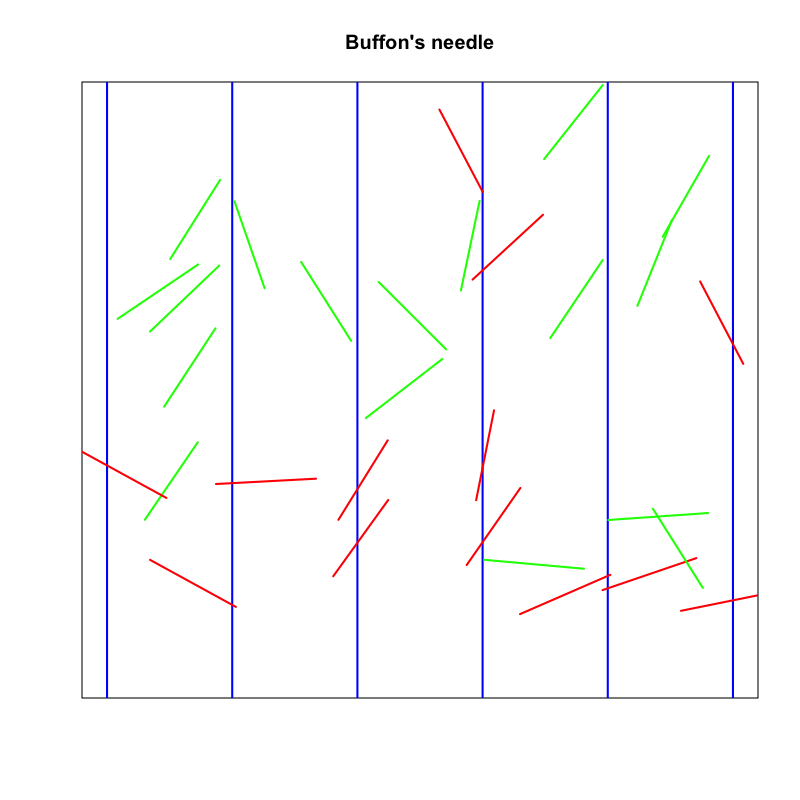
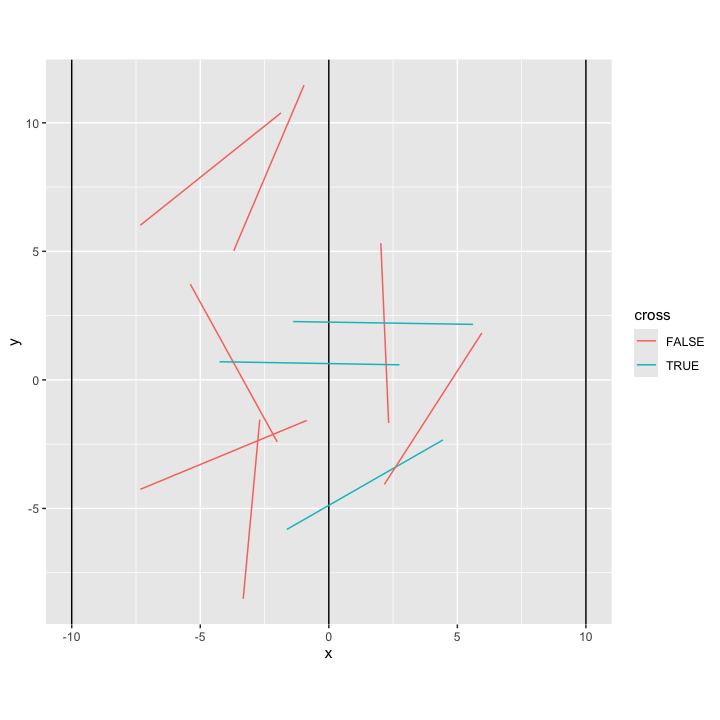
2026 version

diff --git a/docs/slides/slide06.html b/docs/slides/slide06.html
@@ -1,7 +1,7 @@
 <!DOCTYPE html>
 <html lang="en">
 <head>
-<!-- Generated on 2026-05-22 Fri 15:00 -->
+<!-- Generated on 2026-05-22 Fri 16:06 -->
 <meta charset="utf-8"/>
 <title>確率シミュレーション</title>
 <meta name="author" content="村田 昇"/>
@@ -74,8 +74,8 @@
 
 </section>
 <section>
-<section id="slide-org7694a65">
-<h2 id="org7694a65">講義の内容</h2>
+<section id="slide-org9dea32a">
+<h2 id="org9dea32a">講義の内容</h2>
 <ul>
 <li>計算機による数値実験</li>
 <li>乱数とは</li>
@@ -85,13 +85,13 @@
 </section>
 </section>
 <section>
-<section id="slide-orge4cf90b">
-<h2 id="orge4cf90b">計算機による数値実験</h2>
-<div class="outline-text-2" id="text-orge4cf90b">
+<section id="slide-orgd5dbd32">
+<h2 id="orgd5dbd32">計算機による数値実験</h2>
+<div class="outline-text-2" id="text-orgd5dbd32">
 </div>
 </section>
-<section id="slide-org7f364d8">
-<h3 id="org7f364d8">データ解析の枠組</h3>
+<section id="slide-orga78c031">
+<h3 id="orga78c031">データ解析の枠組</h3>
 <ul>
 <li>分析の目的
 <ul>
@@ -117,8 +117,8 @@
 
 </ul>
 </section>
-<section id="slide-org727b38f">
-<h3 id="org727b38f">データのもつべき性質</h3>
+<section id="slide-org78832a9">
+<h3 id="org78832a9">データのもつべき性質</h3>
 <ul>
 <li>偏った一部のデータから全体の性質の推測は困難
 <ul>
@@ -145,8 +145,8 @@
 
 </ul>
 </section>
-<section id="slide-org7c512c0">
-<h3 id="org7c512c0">理論解析と数値実験</h3>
+<section id="slide-org8326cfe">
+<h3 id="org8326cfe">理論解析と数値実験</h3>
 <ul>
 <li><p>
 <b>データ収集の問題</b> 
@@ -175,13 +175,13 @@
 </section>
 </section>
 <section>
-<section id="slide-orgea61ab7">
-<h2 id="orgea61ab7">乱数とは</h2>
-<div class="outline-text-2" id="text-orgea61ab7">
+<section id="slide-org86cfbdc">
+<h2 id="org86cfbdc">乱数とは</h2>
+<div class="outline-text-2" id="text-org86cfbdc">
 </div>
 </section>
-<section id="slide-org1537e92">
-<h3 id="org1537e92">擬似乱数</h3>
+<section id="slide-orge50db49">
+<h3 id="orge50db49">擬似乱数</h3>
 <ul>
 <li>コンピューターで生成された数列
 <ul>
@@ -200,8 +200,8 @@
 
 </ul>
 </section>
-<section id="slide-org50c47d5">
-<h3 id="org50c47d5">基本的な乱数</h3>
+<section id="slide-orge409475">
+<h3 id="orge409475">基本的な乱数</h3>
 <ul>
 <li><b>ランダムサンプリング</b> (無作為抽出)
 <ul>
@@ -224,8 +224,8 @@
 
 </ul>
 </section>
-<section id="slide-org7658995">
-<h3 id="org7658995">乱数を発生する関数</h3>
+<section id="slide-org2288a29">
+<h3 id="org2288a29">乱数を発生する関数</h3>
 <ul>
 <li>Rには様々な確率分布に従う乱数が実装されている
 <ul>
@@ -238,8 +238,8 @@
 
 </ul>
 </section>
-<section id="slide-org396ca3d">
-<h3 id="org396ca3d">関数の利用例</h3>
+<section id="slide-org5686cf8">
+<h3 id="org5686cf8">関数の利用例</h3>
 <ul>
 <li><p>
 <span style="color:green;">関数 <code>sample()</code> の使い方</span>
@@ -321,13 +321,13 @@ runif(5)    # 初めのseed=1の場合と同じ系列が再現される
 </section>
 </section>
 <section>
-<section id="slide-org518953c">
-<h2 id="org518953c">乱数を用いた数値実験</h2>
-<div class="outline-text-2" id="text-org518953c">
+<section id="slide-org0a60936">
+<h2 id="org0a60936">乱数を用いた数値実験</h2>
+<div class="outline-text-2" id="text-org0a60936">
 </div>
 </section>
-<section id="slide-orgb0dddbc">
-<h3 id="orgb0dddbc">確率シミュレーション</h3>
+<section id="slide-org62d05fb">
+<h3 id="org62d05fb">確率シミュレーション</h3>
 <ul>
 <li>確率的現象の理解
 <ul>
@@ -355,8 +355,8 @@ runif(5)    # 初めのseed=1の場合と同じ系列が再現される
 
 </ul>
 </section>
-<section id="slide-org5e1bb95">
-<h3 id="org5e1bb95">繰り返し実験の関数</h3>
+<section id="slide-org5a8736f">
+<h3 id="org5a8736f">繰り返し実験の関数</h3>
 <ul>
 <li>同じ手続きを指定した回数繰り返して評価</li>
 <li><p>
@@ -373,8 +373,8 @@ runif(5)    # 初めのseed=1の場合と同じ系列が再現される
 
 </ul>
 </section>
-<section id="slide-org8349e02">
-<h3 id="org8349e02">数値実験の例</h3>
+<section id="slide-orga9e1d02">
+<h3 id="orga9e1d02">数値実験の例</h3>
 <ul>
 <li><p>
 <span style="color:green;">2つのサイコロを振る試行</span>
@@ -406,18 +406,18 @@ print(my_data) # 実験結果は行列(配列)として保存されている
 </section>
 </section>
 <section>
-<section id="slide-org111ebb4" data-background="#fef4f4">
-<h2 id="org111ebb4">演習</h2>
+<section id="slide-org84ad577" data-background="#fef4f4">
+<h2 id="org84ad577">演習</h2>
 </section>
 </section>
 <section>
-<section id="slide-org81afd5c">
-<h2 id="org81afd5c">確率シミュレーションの例</h2>
-<div class="outline-text-2" id="text-org81afd5c">
+<section id="slide-org191185f">
+<h2 id="org191185f">確率シミュレーションの例</h2>
+<div class="outline-text-2" id="text-org191185f">
 </div>
 </section>
-<section id="slide-org1604853">
-<h3 id="org1604853">Buffon の針</h3>
+<section id="slide-org1109390">
+<h3 id="org1109390">Buffon の針</h3>
 <ul>
 <li><p>
 問題
@@ -437,9 +437,18 @@ print(my_data) # 実験結果は行列(配列)として保存されている
 </ul></li>
 
 </ul>
+
 </section>
-<section id="slide-org33defca">
-<h3 id="org33defca">Monty Hall 問題</h3>
+<section>
+
+<div id="org4d77740" class="figure">
+<p><img src="figs/buffon.png" alt="buffon.png" class="r-stretch" />
+</p>
+<p><span class="figure-number">Figure 1: </span>Buffonの針</p>
+</div>
+</section>
+<section id="slide-orgc610b19">
+<h3 id="orgc610b19">Monty Hall 問題</h3>
 <ul>
 <li><p>
 問題
@@ -465,8 +474,8 @@ print(my_data) # 実験結果は行列(配列)として保存されている
 
 </ul>
 </section>
-<section id="slide-org6097530">
-<h3 id="org6097530">秘書問題 (最適停止問題)</h3>
+<section id="slide-org076c217">
+<h3 id="org076c217">秘書問題 (最適停止問題)</h3>
 <ul>
 <li><p>
 問題
@@ -495,8 +504,8 @@ print(my_data) # 実験結果は行列(配列)として保存されている
 </section>
 </section>
 <section>
-<section id="slide-orgd9cc2a7">
-<h2 id="orgd9cc2a7">次回の予定</h2>
+<section id="slide-org4198820">
+<h2 id="org4198820">次回の予定</h2>
 <ul>
 <li>独立な確率変数の性質</li>
 <li>大数の法則</li>
